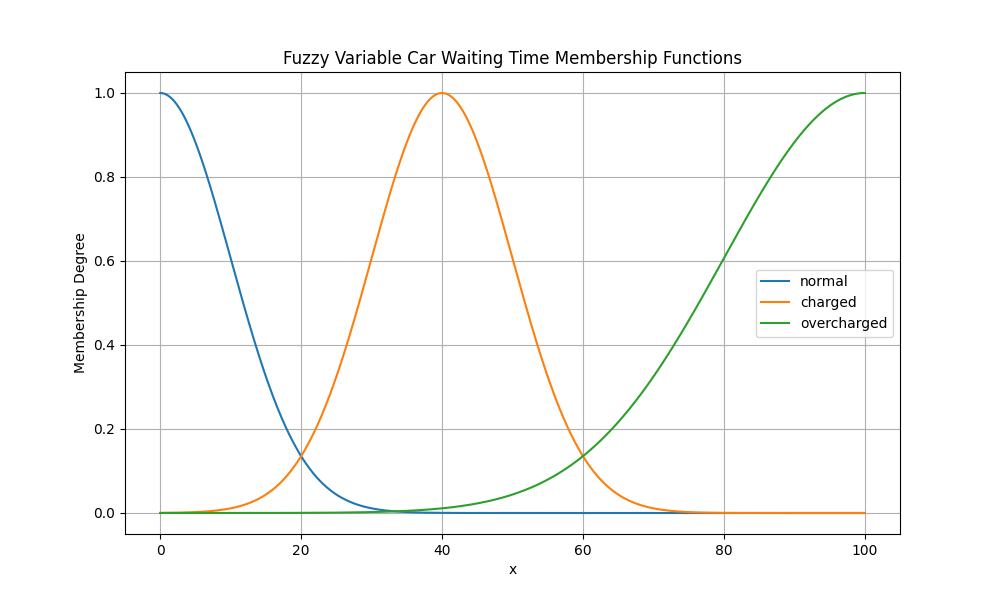
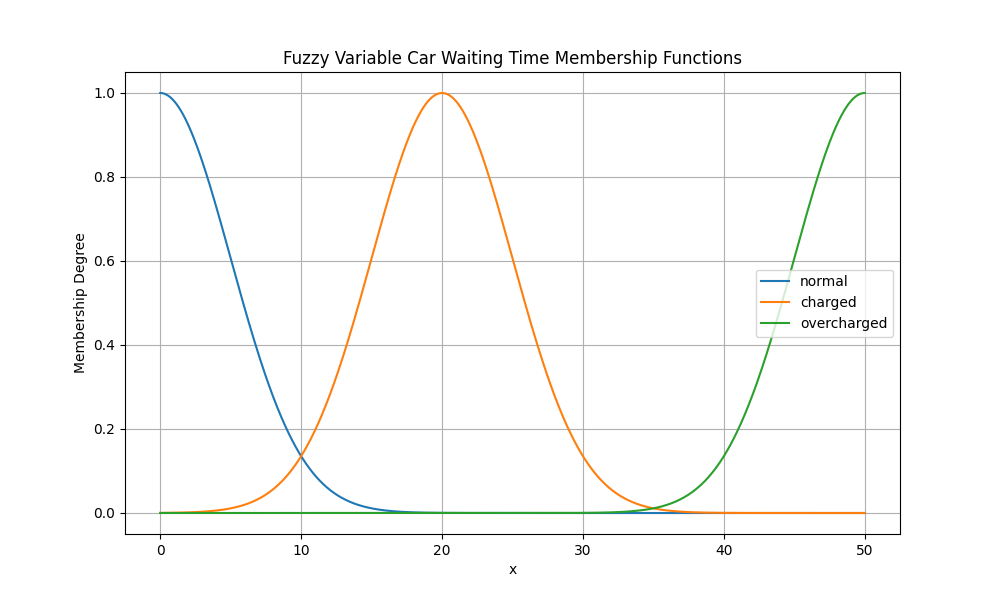
doc : review informe

diff --git a/src/sim/Walker/Walker.py b/src/sim/Walker/Walker.py
@@ -226,8 +226,6 @@ class Walker(MovingAgent):
                 if valid_coordinates(x, y, len(self.environment.matrix), len(self.environment.matrix[0])):
                     if isinstance(self.environment.matrix[x][y], SidewalkBlock):
                         self.path = plan.path_finder(self.position, (x, y))
-                        #print(f"Path from {self.position} to  {(x, y)} is")
-                        #print(self.path)
                         break
         if len(self.path) > 0:
             next_pos = self.path[0]

diff --git a/report/Informe.md b/report/Informe.md
@@ -184,6 +184,7 @@ Los agentes inteligentes deben tener en cuenta los siguientes tres característi
 *Habilidad Social* : Los agentes inteligentes deben ser capaces de interactuar con otros agentes para satisfacer sus objetivos.
 
 Surge el problema de hallar un balance entre la reactividad y la pro-actividad. 
+
 Una analogía a esto ocurre en con la arquitectura BDI.
 
 En la arquitectura BDI los agentes poseen creencias sobre su entorno que pueden ser correctas o no, poseen objetivos que desean lograr e intenciones que conllevarán a acciones o planes para lograr sus objetivos. 
@@ -206,39 +207,45 @@ Primero percibe el entorno actual, lo que actualiza sus creencias, en base a est
 
 #### Semáforos
 
-Los semáforos poseen un sistema de lógica difusa en su comportamiento, alternan entre *ROJO*, permitiendo el paso de los peatones, y *VERDE* permitiendo el paso de los carros, que tanto tiempo debe permanecer un semáforo en *VERDE* y que tan cargado se encuentra son las preguntas que debe responder el sistema de lógica difusa. Con el objetivo de que si el factor peatonal es alto estaría menos tiempo en *VERDE* y viceversa. Aunque influyen más factores.
+Los semáforos poseen un sistema de lógica difusa en su comportamiento, alternan entre *ROJO*, permitiendo el paso de los peatones, y *VERDE* permitiendo el paso de los carros, que tanto tiempo debe permanecer un semáforo en *VERDE* y que tan cargado se encuentra son las preguntas que debe responder el sistema de lógica difusa. 
+
+Con el objetivo de que si el factor peatonal es alto estaría menos tiempo en *VERDE* y viceversa. Aunque influyen más factores.
 
 Las variables de entrada serían:
-    - El clima, con conjuntos *lloviendo*, *nubloso*, *soleado*
-    - El tiempo de espera de los carros (una vez se plantea cruzar un semáforo)
-    - El tiempo de espera de los peatones (una vez se plantea cruzar un semáforo)
-    - El mes del año.
+    - El clima, con conjuntos *lloviendo*, *nubloso*, *soleado*.
+    - El tiempo de espera de los carros (una vez se plantea cruzar un semáforo) con conjuntos normal, cargado, sobrecargado
+    - El tiempo de espera de los peatones (una vez se plantea cruzar un semáforo) con conjuntos normal, cargado, sobrecargado
+    - El mes del año, con conjuntos bajo, promedio, alto ( fue tenido en cuenta para representar que en temporadas específicas del año hay menos tráfico peatonal)
+    - El momento del día, con conjuntos madrugada, mañana, tarde y noche: 
 
 Las variables de salida serían:
-    - La sobre-carga del semáforo, usada por los carros.
-    - El tiempo que ha de permanecer en verde.
+    - La probabilidad de carros, con conjuntos bajo, medio, alto.
+    - La sobrecarga del semáforo, con conjuntos bajo, medio, alto.
 
-![](./images/greentime.png)
 ![](./images/car_waiting_time.png)
+![](./images/car_prob.png.png)
 
 Para cada variable de salida, para conjunto que de esta es necesario añadir una regla para determinar su valor : 
 
 Algunas reglas que añadimos son:
-    - el *GREEN_TIME* es alto si el mes es de alta o el tiempo de espera de los carros es alto o el tiempo de espera de los peatones es normal o el clima no es soleado o es de madrugada.
-    - el *GREEN_TIME* es bajo si se cumple que el tiempo de espera de los carros es bajo y el tiempo de espera de los peatones es bajo y el tiempo no es lluvioso y además es de noche
-    - el *OVERLOAD* es alto si el tiempo de espera de los peatones y los carros es alto.
+   - el *CAR_PROB* es alto si al menos una de las siguientes : el mes es de baja o de alta ( los meses de invierno), el tiempo de espera de los peatones es normal, el tiempo de espera de los carros es bastante, está lloviendo y es de noche o madrugada.
+   - el *OVERLOAD* es alto si el tiempo de espera de los peatones y los carros es alto.
+
+Nota : En las variables de entrada que son los tiempos de espera de los carros y los caminantes estimamos su dominio ( entre que valores oscilan estos tiempos) con los resultados de la simulación
 
 ##### Comportamiento
 
-Siempre actualiza los valores de las variables de entrada.
+Siempre actualiza los valores de las variables de entrada tomándolos del *environment*.
 
-Los tiempos de espera de los carros y los peatones son dados por estos cuando pasan el semáforo en cuestión.
+Los tiempos de espera de los carros y los peatones son proporcionados por estos cuando pasan el semáforo en cuestión.
 
-Con alguna probabilidad (para evitar que esté constantemente ejecutando el proceso de inferencia) actualiza sus variables de salida ( ejecuta el proceso de inferencia).
+Cada $30$ iteraciones actualizan sus variables de salida ( ejecuta el proceso de inferencia ). El $30$ es para balancear la rapidez de la simulación contra cuantas veces se actualizan los semáforos. 
 
-Cada vez que cambia el *GREEN_TIME*, a consecuencia de cambios en las variables de entrada, espera a estar en estado *ROJO* y cambia el tiempo a verde.
+Cada vez que cambia el *CAR_PROB*, a consecuencia de cambios en las variables de entrada, espera a ser posible y actualiza los tiempos ( no puede de repente disminuir el tiempo que durará en rojo pués puede causar accidentes).
 
 Provee de un método público a los demás agentes para que estos sepan cuanto tiempo le queda a el semáforo en el estado en que se encuentra.
+
+El semáforo posee un tiempo de ciclo fijo, que depende de cuantas direcciones este posea. Este ciclo se debe dividir en tiempo rojo ( peatones) y tiempo verde ( carros), el tiempo verde es dividido entre las direcciones posibles. La proporción de como dividir el tiempo entre rojo y verde es lo determinado por *CAR_PROB*. En un semáforo estándar asumimos que se mantiene constante.
 
 #### Automóviles
 
@@ -246,20 +253,20 @@ El carro se encuentra desplazándose por las carreteras sin poder haber dos carr
 
 El carro necesita una forma de encontrar un camino hacia su lugar de destino, ha de saber actuar cuando no puede seguir con su plan y desea evitar estancarse en un semáforo.
 
-El carro posee una estrategia que seguirá para llegar a su destino ( carácter pro-activo) pero ya sea, porque no le es posible continuar o porque no le dio resultado la actualizará ( reconsiderar su estrategia), además de que debe moverse siempre si le es posible (carácter reactivo), o sea, porque no pueda seguir su plan no debe dejar de moverse porque si no obstruiría el tráfico.
+El carro posee una estrategia que seguirá para llegar a su destino ( carácter pro-activo) pero ya sea, porque no le es posible continuar o porque no le dio resultado, la actualizará ( reconsiderar su estrategia), además de que debe moverse siempre si le es posible (carácter reactivo), o sea, porque no pueda seguir su plan no debe dejar de moverse porque si no obstruiría el tráfico.
 
-Posee un método *emergency_act* que como el nombre indica, lo utiliza cuando su plan no es viable, por las condiciones del ambiente. 
+Posee un método *emergency_act* que como el nombre indica, lo utiliza cuando su plan no es viable, por las condiciones de la carretera donde se encuentra. 
 
 En circunstancias normales empleará su estrategia para decidir que camino tomar.
 
 ##### Estrategia:
 
-El carro puede estar en dos estados : *Obstruido* y *Libre*, puede tomar cuatro acciones : *Random*, *Depth-DFS*, *Dijkstra*, *Dijkstra-Modified*, esto es representado a través de una matriz de probabilidades de $2*4$, en cada fila, está las probabilidades de que tome la acción de esa columna, las probabilidades de una fila han de sumar $1$. La idea es que a medida que el carro usa las acciones actualize estas probabilidades en función de si le fue útil o no utilizar esta acción.
+El carro puede estar en dos estados : *Obstruido* y *Libre*, puede tomar cuatro acciones : *Random*, *Depth-DFS*, *Dijkstra*, *Dijkstra-Modified*, esto es representado a través de una matriz de probabilidades de $2*4$, en cada fila, están las probabilidades de que tome la acción de esa columna, las probabilidades de una fila han de sumar $1$. La idea es que a medida que el carro usa las acciones actualize estas probabilidades en función de si le fue útil o no utilizar esta acción.
 
-El carro se encuentra en el estado *Obstruido* si sus últimas tres posiciones son las mismas.
-El carro se encuentra en el estado *Libre* si sus últimas tres posiciones son diferentes.
+El carro se encontrará en el estado *Obstruido* si sus últimas tres posiciones son las mismas.
+El carro se encontrará en el estado *Libre* si sus últimas tres posiciones son diferentes.
 
-En un estado, decide que acción tomar, escogiendo un número aleatorio entre $[0, 1]$ y en dependencia de que intervalo se encuentre escoge la acción.
+En un estado, decide que acción tomar, escogiendo un número aleatorio entre $[0, 1]$ y en dependencia de en que intervalo se encuentre escoge la acción.
 
 Una acción en un estado es priorizada ( aumenta su probabilidad ) si permitió que el carro se moviera en las últimas dos iteraciones, en caso contrario su probabilidad  en ese estado es disminuida. Esto es una forma de implementar el método *reward*, puede ser escogida otra forma de *reward* una acción.
 
@@ -291,34 +298,47 @@ Es posible añadir más acciones y más estados en los que se puede encontrar el
 
 #### Peatones
 
-Los agentes caminantes están basados en la arquitectura $BDI$, estos se mueven a través de las aceras y pueden cruzar una calle siempre que el semáforo esté en rojo, ellos poseen varios lugares de interés a los que desean ir, (tienen una prioridad sobre cuales desean visitar primero), pero no saben inicialmente donde se encuentran estos, poseen una creencia de donde puedan estar. A medida que se mueven y visitan lugares de interés en el mapa guardan actualizan sus creencias sobre los lugares de interés en el mapa. A su vez actualizan las prioridades sobre los lugares que desean visitar, escogiendo para visitar ( intención) el de mayor prioridad, incorporan un factor social además.
+Los agentes caminantes están basados en la arquitectura $BDI$, Una explicación resumida  es la siguiente: 
+
+Estos se mueven a través de las aceras y pueden cruzar una calle siempre que el semáforo esté en rojo, ellos poseen varios lugares de interés a los que desean ir, (tienen una prioridad sobre cuales desean visitar primero), pero no saben inicialmente donde se encuentran estos, poseen una creencia de donde puedan estar. A medida que se mueven y visitan lugares de interés en el mapa guardan y actualizan sus creencias sobre los lugares de interés en el mapa. A su vez actualizan las prioridades sobre los lugares que desean visitar, escogiendo para visitar (intención) el de mayor prioridad, incorporan un factor social además.
+
+Nota : Cuando decimos que se escoge un número aleatorio nos referimos a un número entre $[0, 1]$.
 
 Paso a paso su funcionamiento:
 
-1 - Actualizan sus creencias: Si en su posición actual hay un lugar de interés añaden esta información a sus creencias (sabe donde está, por tanto es conocimiento). Si en su posición hay otro caminante se escoge un número aleatorio y si es menor que su factor social, este caminante actualiza sus creencias además usando los creencias del caminante con el que se encontró. O sea cada caminante tiene un factor social como un número entre $[0, 1]$, para decidir cuando ser social con otros caminantes. Además un caminante posee otro factor de confianza, si esta es baja es menos probable que escoja creencias de otro caminante que no sean certeras. Siempre escoge las que representen conocimiento. De esta forma un caminante actualiza sus creencias.
+1 - Actualizan sus creencias: Si en su posición actual hay un lugar de interés añaden esta información a sus creencias (sabe donde está, por tanto es conocimiento). Si en su posición hay otro caminante se halla un número aleatoio y si es menor que su factor social, este caminante actualiza sus creencias, además usando los creencias del caminante con el que se encontró. O sea cada caminante tiene un factor social como un número entre $[0, 1]$, para decidir cuando ser social con otros caminantes. Además un caminante posee otro factor de confianza, si esta es baja es menos probable que escoja creencias de otro caminante que no sean certeras. Siempre escoge las que representen conocimiento. De esta forma un caminante actualiza sus creencias.
 
 2 - Si ya visitó todos los lugares que deseaba entonces es removido de la simulación.
 
-3 - Cada caminante posee un factor de reactivad, entonces si su plan se acabó ( el camino que estaba siguiendo ya lo culminó) o un número aleatorio entre $[0,1]$ es menor que este factor, el caminante actualiza sus deseos y ha de escoger un plan nuevo.
+3 - Actualiza sus deseos de la siguiente forma: Sus deseos son representados a través de un diccionario donde a cada lugar que desea visitar le es asignado una prioridad. Existen diferentes variantes que modifican los deseos, son ejecutadas todas pero en orden aleatorio, el resultado de una puede afectar a la otra ya que estas usan modifican los deseos con su ejecución, y estas a su vez, en dependencia de los deseos se ejecutan. Entre estas variantes se encuentran:  
 
-Actualiza sus deseos de la siguiente forma: Sus deseos son representados a través de un diccionario donde a cada lugar que desea visitar le es asignado una prioridad. Si hay un caminante en mi posición que también desea ir a un lugar en específico le es aumentada la prioridad, aquí nuevamente se tiene en cuenta el factor social. Si hay algún lugar entre mis deseos que se donde se encuentra le aumento la prioridad. Aleatoriamente escojo un lugar y le aumento la prioridad. Finalmente si un caminante lleva mucho tiempo en una posición en específico se igualan todas las prioridades.
+   - Si hay varios lugares con la máxima prioridad escoger uno al azar y a el resto hacerles su prioridad mínima.
+   - Si hay un caminante en mi posición que también desea ir a un lugar en específico le es aumentada la prioridad a este lugar, aquí nuevamente se tiene en cuenta el factor social. 
+   - Si hay algún lugar entre mis deseos que sé donde se encuentra le aumento la prioridad. (a consecuencia de que mis creencias se actualizaron)
+   - Aleatoriamente escojo un lugar y le aumento la prioridad.  
+   - Si un número aleatorio es menor que una constate reseteo todas las prioridades a el mínimo.
+
+4 - Cada caminante posee un factor de reactivad, entonces si su plan se acabó ( el camino que estaba siguiendo ya lo culminó) o reconsidera que continuar con este plan no es su intención o un número aleatorio es menor que este factor, el caminante ha de escoger un plan nuevo.
 
 Escoge un plan de la siguiente forma: Escoge como lugar o intención a ir el de más prioridad entre sus deseos, si el caminante está seguro de donde está el lugar y posee suficiente deseo de visitarlo usará Dijkstra para determinar el camino. En caso contrario con cierta probabilidad se moverá aleatoriamente o usará Dijkstra para moverse hacia la posición del lugar ( pudiendo en este caso no ser la correcta). En el caso de los caminantes a diferencia de los carros la única forma de que no se pueda mover es que estén esperando por un semáforo.
 
 4 - Finalmente escoge la siguiente posición en el camino determinado por su plan para moverse, si no le es posible moverse se mantiene en la posición actual.
 
-Nota : Todas las constantes que son probabilidades entre $[0,1]$ es una idea de métodos de optimización como Particle Swarm Optimization.
+En cierto punto de la ejecución de su plan existe la opción de que reconsidera si le es factible continuar con este plan o reconsiderarlo, esto es determinado análogamente por una probabilidad y además que la prioridad de este lugar no sea máxima
+
+Nota : Todas las constantes son probabilidades entre $[0,1]$, siguiendo la ideas de Particle Swarm Optimization. Donde el conjunto de estas probabilidades determina el comportamiento de la párticula.
 
 ### 2.4 Uso de Large Language Models (LLM)
 
-Apoyándonos en un LLM, específicamente Mistral AI, construimos para cada lugar de interés, a partir de su nombre y descripción, una estructura de datos que presenta la probabilidad que un peatón/automóvil lo visite, así como el horario y fecha en la que pueden hacerlo.
+Apoyándonos en un LLM, específicamente Mistral AI, construimos para cada lugar de interés, a partir de su nombre y descripción, una estructura de datos que representa la probabilidad que un peatón/automóvil lo visite, así como el horario y fecha en la que pueden hacerlo.
 
 A partir de esta meta-información somos capaces de asignar una probabilidad a cada uno de los posibles destinos de los automóviles, con el fin de seleccionarlos para cada evento de llegada de automóvil procesado.
 
 ## 3. Referencias
 
-An Introduction to Multi Agent Systems, Michael Wooldridge
+## References
 
-Temas de Simulación, Luciano García Garrido
-
-Fuzzy Sets and Fuzzy Logic Theory and Applications, GEORGE J.KLIR AND BO YUAN
+1. Wooldridge, Michael. *An Introduction to Multi Agent Systems*. 
+2. Garrido, Luciano García. *Temas de Simulación*.
+3. Klir, George J., and Bo Yuan. *Fuzzy Sets and Fuzzy Logic: Theory and Applications*.
+4. Banks, Jerrey. *Discrete Event System Simulation*.
